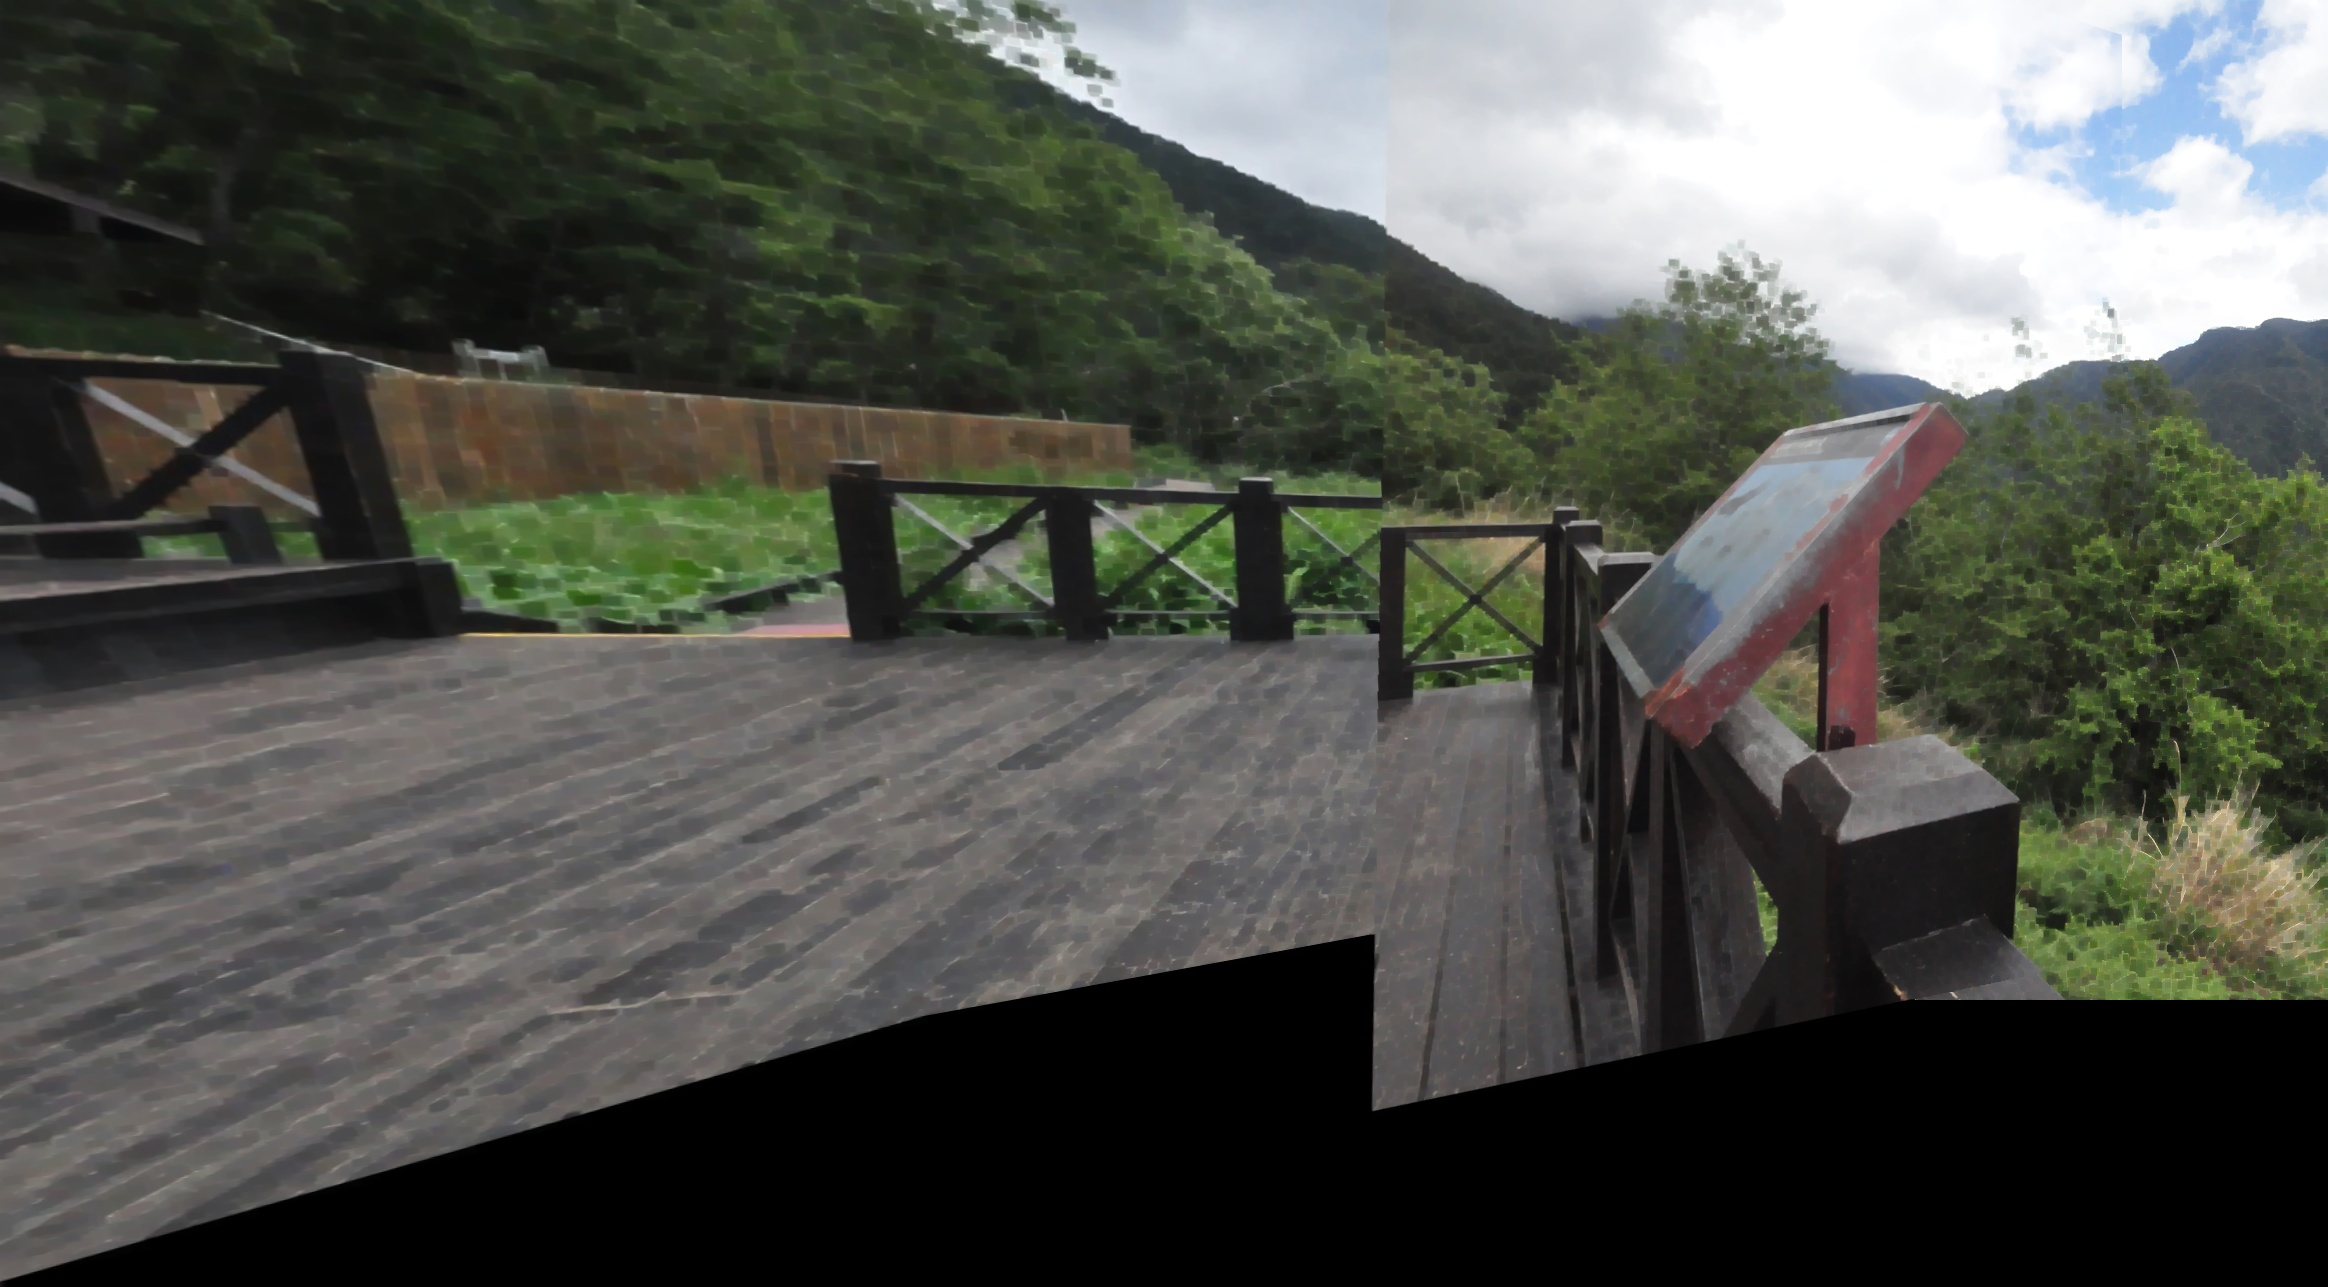
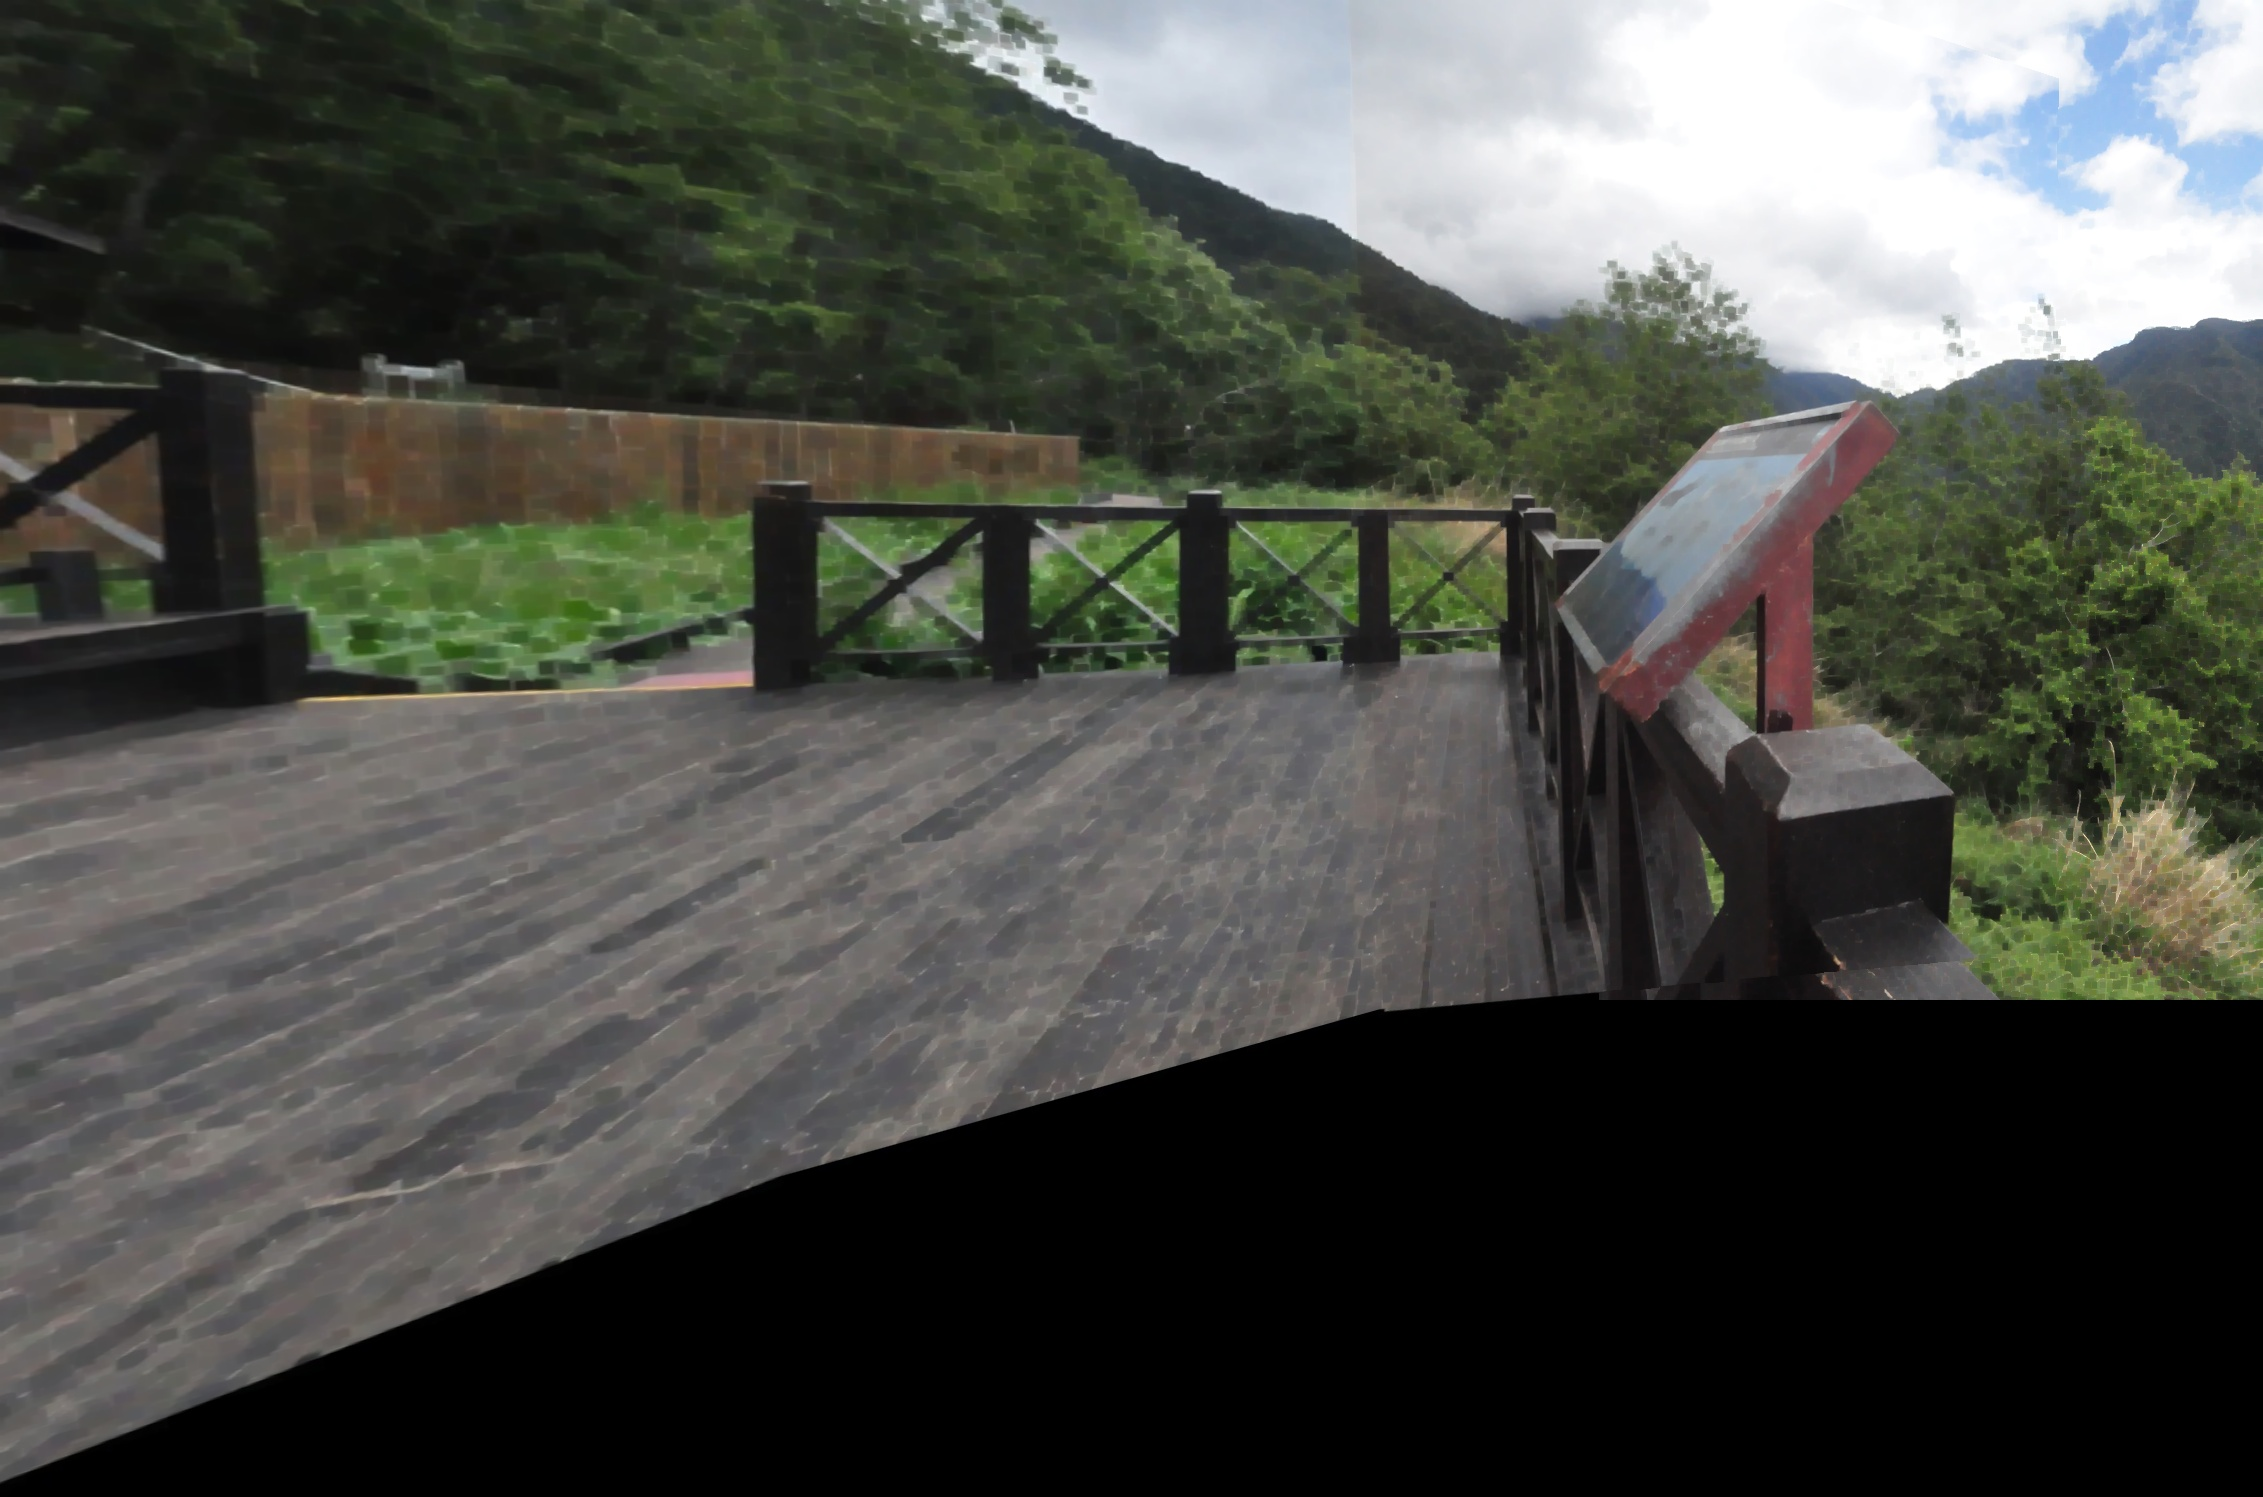
Version 2.5

diff --git a/Project3.py b/Project3.py
@@ -33,9 +33,6 @@ def stitching(addresses, threshold1, threshold2, typeStitch, detectorType = 'sif
     if detectorType == 'sift':
         featureDetector = cv2.xfeatures2d.SIFT_create()
         bMatcher = cv2.BFMatcher(cv2.NORM_L2, crossCheck=False)
-    elif detectorType == 'surf':
-        featureDetector = cv2.xfeatures2d.SURF_create()
-        bMatcher = cv2.BFMatcher(cv2.NORM_L2, crossCheck=False)
     elif detectorType == 'brisk':
         featureDetector = cv2.BRISK_create()
         bMatcher = cv2.BFMatcher(cv2.NORM_HAMMING, crossCheck=False)
@@ -96,7 +93,7 @@ def panorama(folder):
     files = os.listdir(folder)
     images = [folder + '/' + i for i in files]
     addresses = [images[0]]
-    threshold2 = threshold1 = 50000000000
+    threshold2 = threshold1 = 70000000000
     for i in range(1,len(images)):
         addresses.append(images[i])
         result, H = stitching(addresses, threshold1, threshold2, i%2)
@@ -110,6 +107,34 @@ def panorama(folder):
         threshold1 = threshold1*0.2
     return None
 
+def div_conq(folder):
+    files = os.listdir(folder)
+    images = [folder + '/' + i for i in files]
+    addresses = []
+    outputs = []
+    threshold2 = threshold1 = 10000000000
+    j = 0
+    while len(outputs) > 1 or len(outputs) == 0:
+        for i in range(int(len(images)/2)):
+            addresses.append(images.pop(0))
+            if len(images) > 0:
+                addresses.append(images.pop(0))
+            else:
+                outputs.append(addresses.pop(0))
+            print(addresses)
+            result, H = stitching(addresses, threshold1, threshold2, j%2)
+            result = cv2.cvtColor(result, cv2.COLOR_RGB2BGR)
+            filename = 'result'+str(j)+str(i)+'.jpg'
+            cv2.imwrite(filename, result)
+            outputs.append(filename)
+            addresses = []
+        j += 1
+        images = outputs
+        outputs = []
+        threshold1 = threshold1*0.4
+        threshold2 = threshold2*0.4
+
+
 def sharpen(image):
     kernel_sharpening = np.array([[-1,-1,-1], [-1, 9,-1], [-1,-1,-1]])
     sharpened = cv2.filter2D(image, -1, kernel_sharpening)
@@ -120,4 +145,4 @@ def smooth(image):
     blurred = cv2.filter2D(image, -1, kernel)
     return blurred
 
-panorama('imagesSet2')
+div_conq('imagesSet4')
